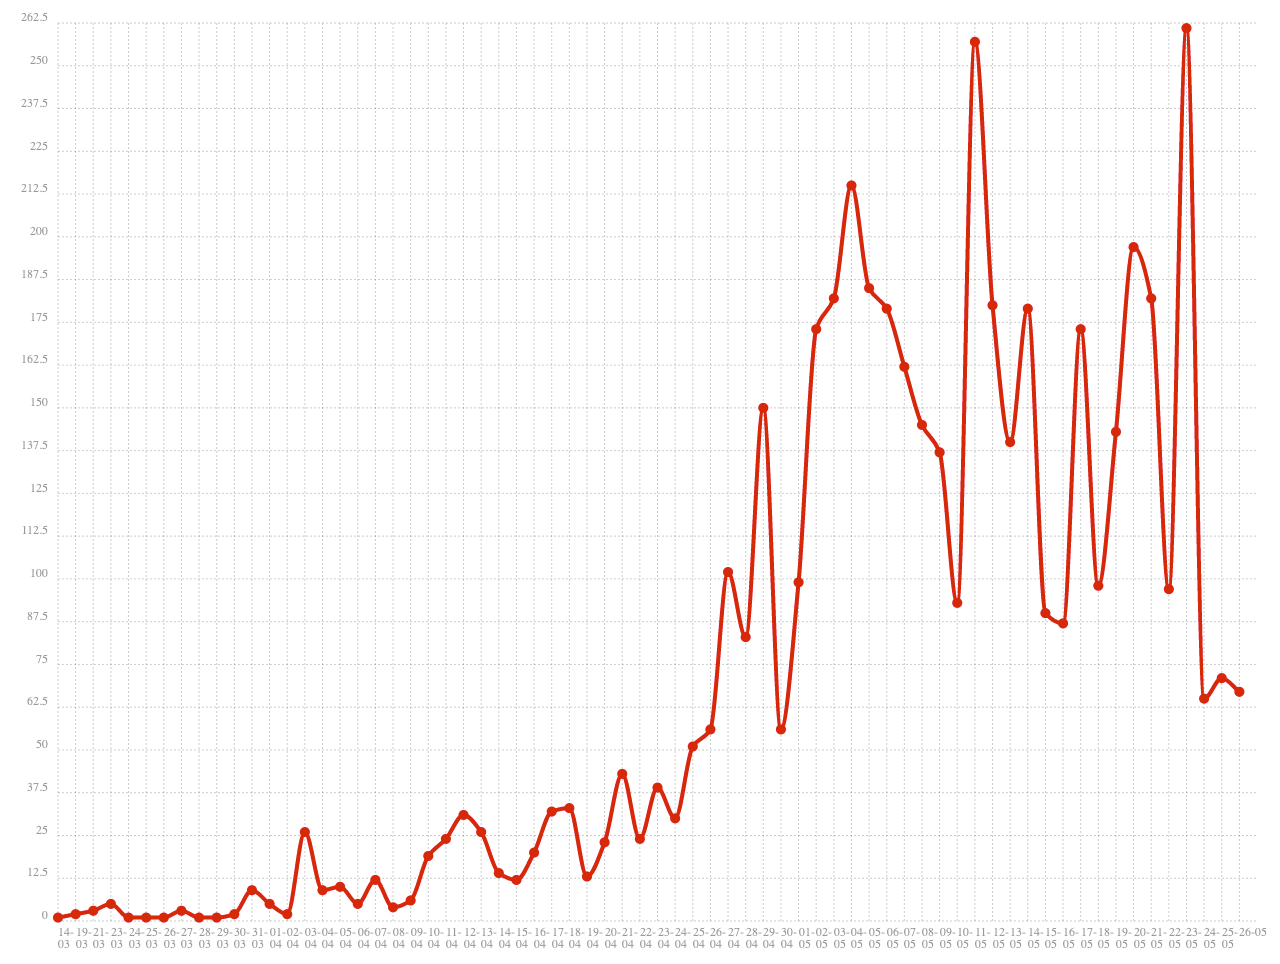
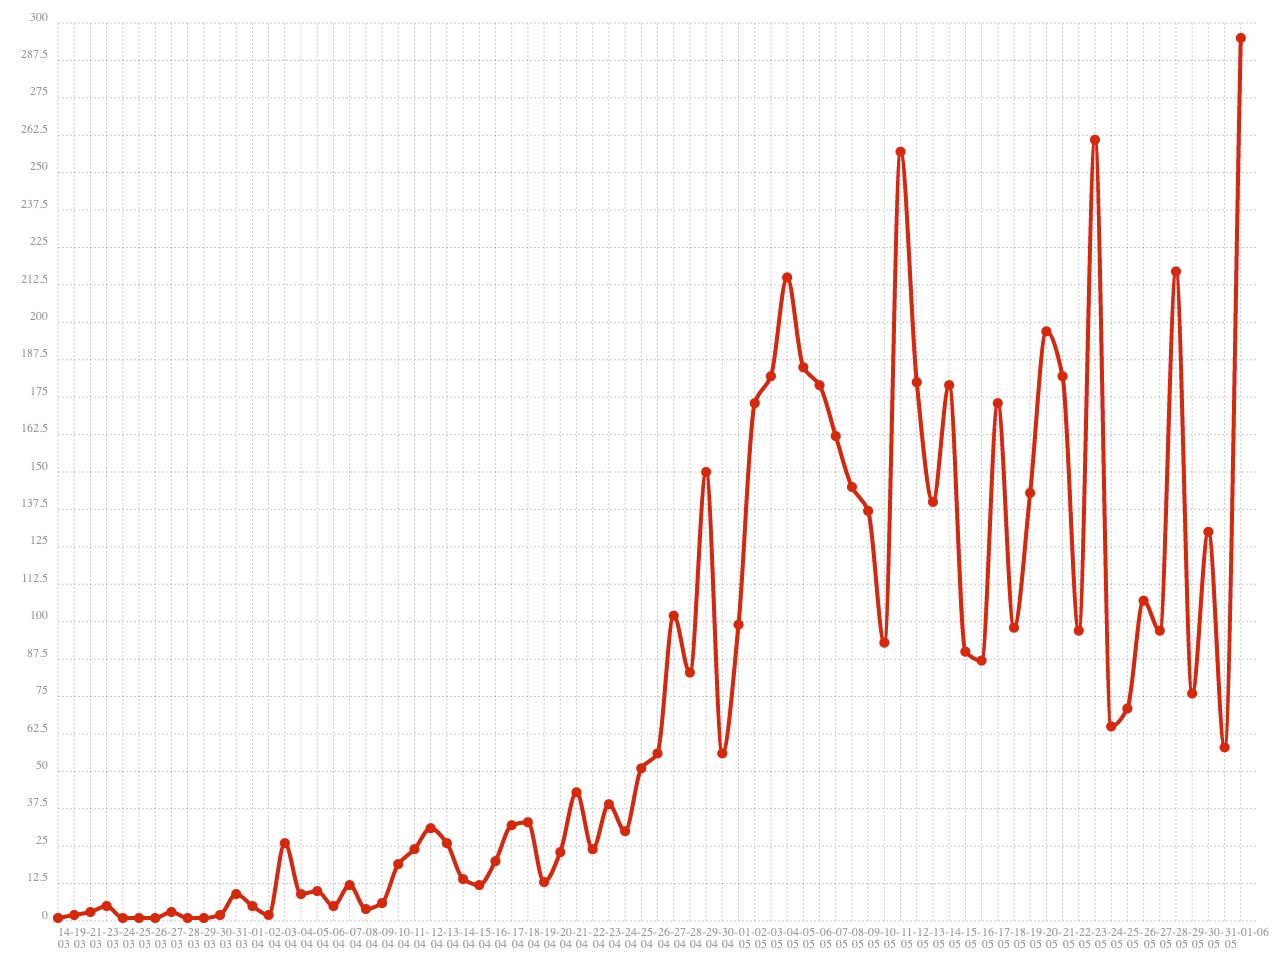
Update README.md & data.json

diff --git a/README.md b/README.md
@@ -13,9 +13,10 @@
 
 
 ## Features
-- Get all cases
-- Get all cases by type
-- Get the case number by type and date
+-[x] Get daily cases
+-[x] Get all cases
+-[x] Get all cases by type
+-[x] Get the case number by type and date
 
 ## How To Use
 > Get daily cases according to type :
@@ -88,7 +89,7 @@ Example of result :
   },
   {
     "date": "18-05-2020",
-    "type": "died",
+    "type": "deaths",
     "number": 192
   },
   {
@@ -105,37 +106,37 @@ Example of result :
 ```
 > Get all cases by type :
 ```shell
-curl http://localhost/cases/died
+curl http://localhost/cases/deaths
 ```
 Example of result :
 ```json
 [
   {
     "date": "12-03-2020",
-    "type": "died",
+    "type": "deaths",
     "number": 1
   },
   {
     "date": "17-03-2020",
-    "type": "died",
+    "type": "deaths",
     "number": 2
   },
   {
     "date": "20-03-2020",
-    "type": "died",
+    "type": "deaths",
     "number": 3
   }
 ]
 ```
 > Get the case number by type and date :
 ```shell
-curl http://localhost/cases/died/12/03/2020
+curl http://localhost/cases/deaths/12/03/2020
 ```
 Example of result :
 ```json
 {
   "date": "12-03-2020",
-  "type": "died",
+  "type": "deaths",
   "number": 1
 }
 ```
@@ -215,6 +216,80 @@ Example of result :
 </html>
 ```
 ![](screenshots/screenshot2.png)
+
+> Daily Recovered Cases :
+```html
+<!DOCTYPE html>
+<html>
+<head>
+    <title>Daily Confirmed Cases</title>
+    <link rel="stylesheet" href="bower_components/chartist/dist/chartist.min.css">
+    <script src="bower_components/chartist/dist/chartist.min.js"></script>
+    <script src="bower_components/jquery/dist/jquery.min.js"></script>
+</head>
+<body>
+<div class="ct-chart ct-perfect-fourth"></div>
+<script>
+    var the_labels = [];
+    var the_series = [];
+    $.ajax({
+        url: "http://localhost/cases/confirmed/daily",
+        type: 'GET',
+        dataType: 'json',
+        success: function (data) {
+            $.each(data, function (index) {
+                the_labels.push(data[index].date.toString().replace("-2020", ""));
+                the_series.push(data[index].number);
+            });
+            var the_data = {
+                labels: the_labels,
+                series: [the_series]
+            };
+            new Chartist.Line('.ct-chart', the_data);
+        }
+    });
+</script>
+</body>
+</html>
+```
+![](screenshots/screenshot3.png)
+
+> Daily Deaths Cases :
+```html
+<!DOCTYPE html>
+<html>
+<head>
+    <title>Daily Confirmed Cases</title>
+    <link rel="stylesheet" href="bower_components/chartist/dist/chartist.min.css">
+    <script src="bower_components/chartist/dist/chartist.min.js"></script>
+    <script src="bower_components/jquery/dist/jquery.min.js"></script>
+</head>
+<body>
+<div class="ct-chart ct-perfect-fourth"></div>
+<script>
+    var the_labels = [];
+    var the_series = [];
+    $.ajax({
+        url: "http://localhost/cases/deaths/daily",
+        type: 'GET',
+        dataType: 'json',
+        success: function (data) {
+            $.each(data, function (index) {
+                the_labels.push(data[index].date.toString().replace("-2020", ""));
+                the_series.push(data[index].number);
+            });
+            var the_data = {
+                labels: the_labels,
+                series: [the_series]
+            };
+            new Chartist.Line('.ct-chart', the_data);
+        }
+    });
+</script>
+</body>
+</html>
+```
+![](screenshots/screenshot4.png)
 
 
 ## Contributing
